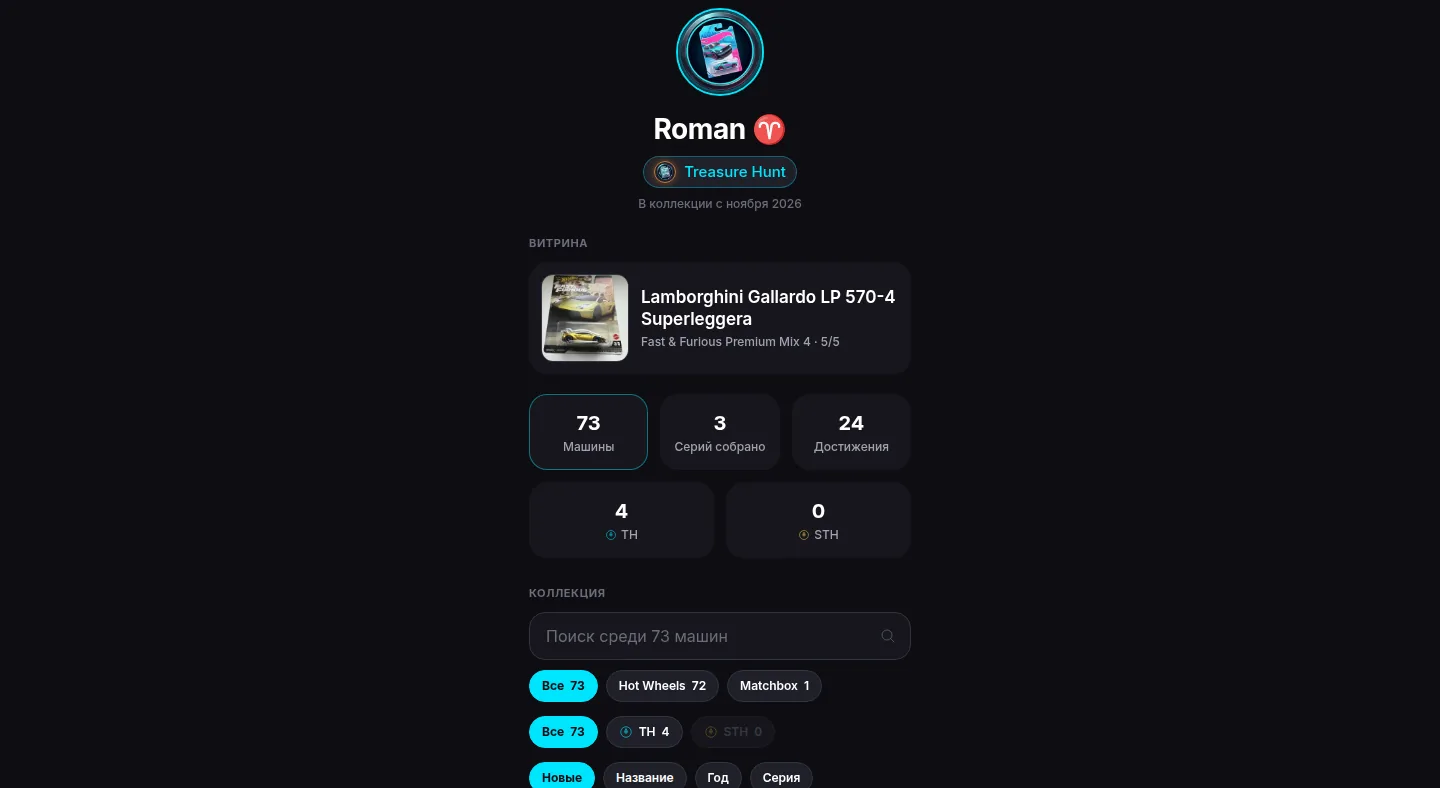
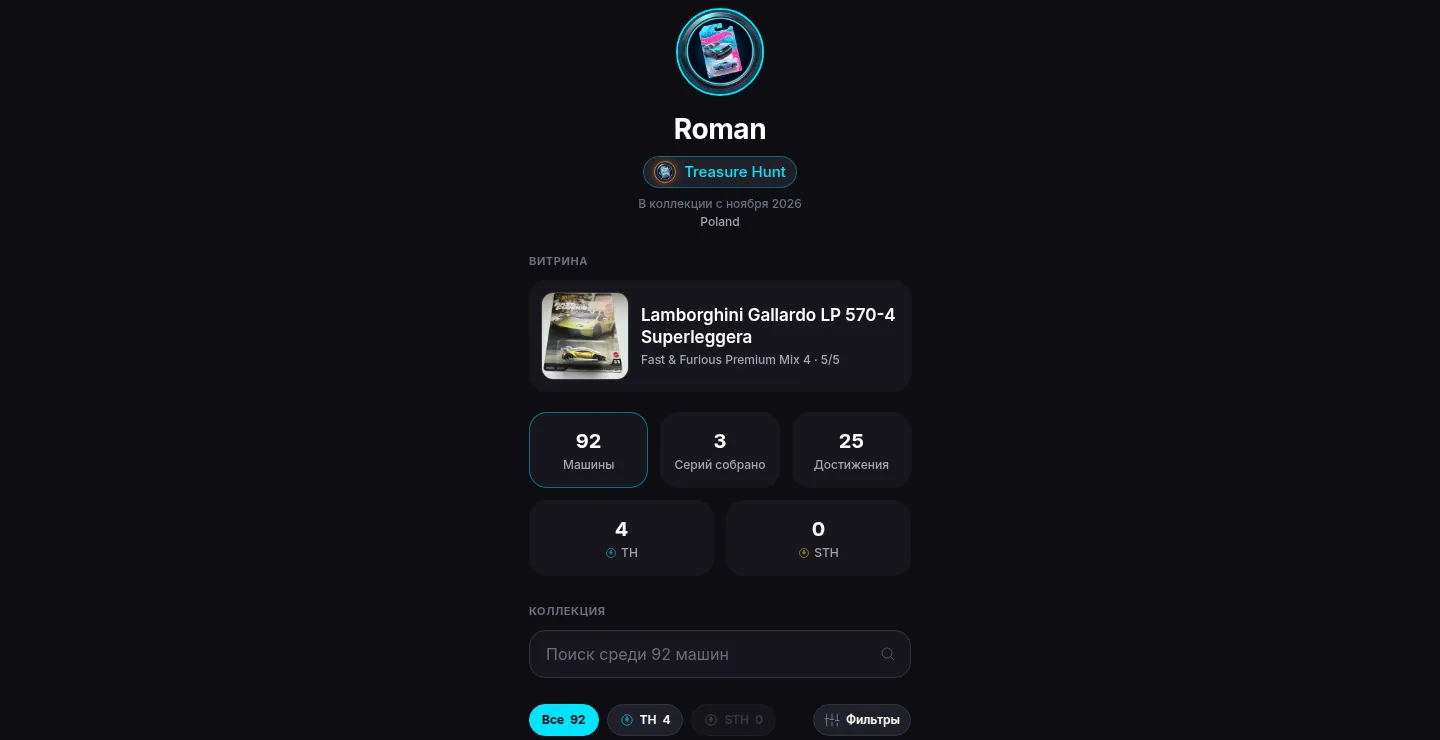
Rewrite MintBlister decisions around the shelf scan
The decisions are now collector pains: scan at the shelf, skip a duplicate, catch a Treasure Hunt, see the missing models, and keep the collection in Telegram. The problem block uses the same body type as the other cases. Screenshots are retaken from the live app, including an owned result and a TH card.

diff --git a/src/work.ts b/src/work.ts
@@ -5,7 +5,7 @@ export type PremiumCase = {
   hook: string; lead: string; role: string;
   problemL: string; problem: string; solutionL: string; solution: string;
   featuresL: string; features: CaseBlock[];
-  designL: string; decisions: string[];
+  designL: string; decisions: CaseBlock[]; note?: string;
   resultL: string; stack: string; close: string;
   ctaT: string; ctaC: string;
 };
@@ -19,7 +19,7 @@ const C = '/img/cases/';
 const range = (p: string, a: number, b: number) => Array.from({ length: b - a + 1 }, (_, i) => `${C}${p}-${a + i}.webp`);
 
 export const WORKS: Work[] = [
-  { key: 'mintblister', slug: 'mintblister', url: 'https://mintblister.vercel.app', host: 'mintblister.vercel.app', thumb: C + 'mintblister-desktop.webp', mob: C + 'mintblister-m3.webp', full: C + 'mintblister-full.webp', shots: [], mobs: [C + 'mintblister-m2.webp', C + 'mintblister-m3.webp', C + 'mintblister-public.webp', C + 'mintblister-m4.webp', C + 'mintblister-m5.webp', C + 'mintblister-m6.webp', C + 'mintblister-m7.webp'] },
+  { key: 'mintblister', slug: 'mintblister', url: 'https://mintblister.vercel.app', host: 'mintblister.vercel.app', thumb: C + 'mintblister-desktop.webp', mob: C + 'mintblister-m3.webp', full: C + 'mintblister-full.webp', shots: [], mobs: [C + 'mintblister-owned.webp', C + 'mintblister-m3.webp', C + 'mintblister-th.webp', C + 'mintblister-mobile.webp', C + 'mintblister-m2.webp', C + 'mintblister-m4.webp', C + 'mintblister-m5.webp', C + 'mintblister-public.webp', C + 'mintblister-m7.webp'] },
   { key: 'awto', slug: 'awtonapraw', url: 'https://awtonapraw.pl/', host: 'awtonapraw.pl', thumb: C + 'awtonapraw-desktop.webp', mob: C + 'awtonapraw-mobile.webp', full: C + 'awtonapraw-full.webp', shots: [C + 'awtonapraw-s1.webp', C + 'awtonapraw-s2.webp', C + 'awtonapraw-s3.webp'], mobs: [C + 'awtonapraw-mobile.webp', C + 'awtonapraw-m2.webp', C + 'awtonapraw-m3.webp'] },
   { key: 'tesla', slug: 'teslahub', url: 'https://www.teslahubservice.com/', host: 'teslahubservice.com', behance: 'https://www.behance.net/gallery/213695989/Tesla-HUB-service', thumb: C + 'teslahub-desktop.webp', mob: C + 'teslahub-mobile.webp', full: C + 'teslahub-full.webp', shots: [C + 'teslahub-s1.webp', C + 'teslahub-s2.webp', C + 'teslahub-s3.webp'], mobs: [C + 'teslahub-mobile.webp', C + 'teslahub-m2.webp', C + 'teslahub-m3.webp'],
     gallery: { label: { ua: 'Бренд під ключ: айдентика, соцмережі, друк', ru: 'Бренд под ключ: айдентика, соцсети, печать', pl: 'Marka pod klucz: identyfikacja, social media, druk', en: 'Turnkey brand: identity, social, print' }, imgs: range('teslahub-brand', 1, 7) } },
@@ -37,33 +37,34 @@ const NEW: Record<'mintblister' | 'glow' | 'reserba' | 'garcinia', Record<Lang, 
     ua: {
       title: 'MintBlister', tag: 'Telegram Mini App · Hot Wheels / Matchbox',
       task: 'Скан блистера. Модель у гаражі. Telegram Mini App для колекціонерів Hot Wheels і Matchbox.',
-      did: ['Скан блистера', 'Каталог на 1 548 моделей', 'TH / STH', 'Досягнення', 'Публічна колекція'],
+      did: ['Скан блистера', 'Каталог на 1 583 моделі', 'TH / STH', 'Досягнення', 'Публічна колекція'],
       result: ['Живий продукт у Telegram і в браузері', 'Публічна колекція, яку можна надіслати', 'Від назви до запуску'],
       premium: {
         hook: 'Скан блистера. Модель у гаражі.',
         lead: 'Telegram Mini App для Hot Wheels і Matchbox.',
         role: 'Ідея, назва, інтерфейс, запуск. Збірка з допомогою ШІ.',
         problemL: 'Безлад',
-        problem: 'Сотні машин у нотатках і таблицях. Не видно, чого бракує. Treasure Hunt і Super Treasure Hunt тонуть у списку.',
+        problem: 'Біля полиці не видно, чи машина вже є, чи вона рідкісна і яких моделей у серії бракує.',
         solutionL: 'Продукт',
-        solution: 'Фото блистера. MintBlister впізнає модель і кладе її в колекцію. Каталог показує дірку в кожній серії. Та сама колекція відкрита в Telegram і в браузері.',
+        solution: 'Скан блистера відповідає на всі три питання і кладе нову модель у колекцію.',
         featuresL: 'Що всередині',
         features: [
           { t: 'Скан', d: 'Фото блистера. Модель розпізнається і додається. Якщо зчитування не впізнало картку, її додають вручну.' },
-          { t: 'Каталог', d: '1 548 моделей. Зібрані серії, пошук, фільтри TH і STH у нижній панелі.' },
-          { t: 'TH / STH', d: 'Treasure Hunt і Super Treasure Hunt стоять на картці і в фільтрах.' },
+          { t: 'Каталог', d: '1 583 моделі. Пошук, зібрані серії, фільтри TH і STH у нижній панелі.' },
+          { t: 'TH / STH', d: 'Treasure Hunt стоїть на картці разом із прогресом серії. Super Treasure Hunt є у фільтрах і в полюванні.' },
           { t: 'Досягнення', d: 'Намальовані значки. Значок STH — блистер із золотим полум’ям. Запрошення іншим колекціонерам.' },
           { t: 'Синхронізація', d: 'Supabase. Вхід на сайті через Telegram: код або QR. Колекція в Mini App і в браузері.' },
           { t: 'Публічна сторінка', d: 'Вітрина, статистика, усі машини з обкладинками, фільтри TH/STH, перемикач приватності.' },
         ],
         designL: 'Рішення',
         decisions: [
-          'Спочатку телефон. Продукт живе в Telegram.',
-          'Скан у центрі таб-бару. Один дотик.',
-          'Мова колекціонера: серія, TH, STH.',
-          'Чорне і біле. Один синій.',
-          'Прогрес на екрані: серії, досягнення, запрошення.',
+          { t: 'Скан біля полиці', d: 'Скан стоїть у центрі панелі: один дотик, і блистер можна сфотографувати або перевірити за назвою.' },
+          { t: 'Без другої такої самої', d: 'Перевірка одразу показує, чи ця машина вже є в колекції.' },
+          { t: 'Рідкісну не пропустити', d: 'Treasure Hunt позначено на картці, поруч прогрес серії. Super Treasure Hunt є у фільтрах і в полюванні на головній.' },
+          { t: 'Видно, чого бракує', d: 'У кожної серії на головній написано, скільки зібрано і яких моделей немає.' },
+          { t: 'Завжди з собою', d: 'Відкривається в Telegram, окремий застосунок ставити не потрібно. Вхід через Telegram синхронізує колекцію, публічну сторінку можна надіслати.' },
         ],
+        note: 'Чорне, біле і один синій.',
         resultL: 'Запуск',
         stack: 'React · Telegram Mini App · Supabase · Vercel · Vercel AI Gateway',
         close: 'Продукт уже відкритий.',
@@ -74,33 +75,34 @@ const NEW: Record<'mintblister' | 'glow' | 'reserba' | 'garcinia', Record<Lang, 
     ru: {
       title: 'MintBlister', tag: 'Telegram Mini App · Hot Wheels / Matchbox',
       task: 'Скан блистера. Модель в гараже. Telegram Mini App для коллекционеров Hot Wheels и Matchbox.',
-      did: ['Скан блистера', 'Каталог на 1 548 моделей', 'TH / STH', 'Достижения', 'Публичная коллекция'],
+      did: ['Скан блистера', 'Каталог на 1 583 модели', 'TH / STH', 'Достижения', 'Публичная коллекция'],
       result: ['Живой продукт в Telegram и в браузере', 'Публичная коллекция, которую можно отправить', 'От названия до запуска'],
       premium: {
         hook: 'Скан блистера. Модель в гараже.',
         lead: 'Telegram Mini App для Hot Wheels и Matchbox.',
         role: 'Идея, название, интерфейс, запуск. Сборка с помощью ИИ.',
         problemL: 'Бардак',
-        problem: 'Сотни машин в заметках и таблицах. Не видно, чего не хватает. Treasure Hunt и Super Treasure Hunt тонут в списке.',
+        problem: 'У полки не видно, есть ли уже эта машина, редкая ли она и каких моделей в серии не хватает.',
         solutionL: 'Продукт',
-        solution: 'Фото блистера. MintBlister узнаёт модель и кладёт её в коллекцию. Каталог показывает дыру в каждой серии. Та же коллекция открыта в Telegram и в браузере.',
+        solution: 'Скан блистера отвечает на все три вопроса и кладёт новую модель в коллекцию.',
         featuresL: 'Что внутри',
         features: [
           { t: 'Скан', d: 'Фото блистера. Модель распознаётся и добавляется. Если считывание не узнало карточку, её добавляют вручную.' },
-          { t: 'Каталог', d: '1 548 моделей. Собранные серии, поиск, фильтры TH и STH в нижней панели.' },
-          { t: 'TH / STH', d: 'Treasure Hunt и Super Treasure Hunt стоят на карточке и в фильтрах.' },
+          { t: 'Каталог', d: '1 583 модели. Поиск, собранные серии, фильтры TH и STH в нижней панели.' },
+          { t: 'TH / STH', d: 'Treasure Hunt стоит на карточке вместе с прогрессом серии. Super Treasure Hunt есть в фильтрах и в охоте.' },
           { t: 'Достижения', d: 'Нарисованные значки. Значок STH — блистер с золотым пламенем. Приглашения другим коллекционерам.' },
           { t: 'Синхронизация', d: 'Supabase. Вход на сайте через Telegram: код или QR. Коллекция в Mini App и в браузере.' },
           { t: 'Публичная страница', d: 'Витрина, статистика, все машины с обложками, фильтры TH/STH, переключатель приватности.' },
         ],
         designL: 'Решения',
         decisions: [
-          'Сначала телефон. Продукт живёт в Telegram.',
-          'Скан в центре таб-бара. Одно касание.',
-          'Язык коллекционера: серия, TH, STH.',
-          'Чёрное и белое. Один синий.',
-          'Прогресс на экране: серии, достижения, приглашения.',
+          { t: 'Скан у полки', d: 'Скан стоит в центре панели: одно касание, и блистер можно сфотографировать или проверить по имени.' },
+          { t: 'Без второй такой же', d: 'Проверка сразу показывает, есть ли эта машина уже в коллекции.' },
+          { t: 'Редкую не пропустить', d: 'Treasure Hunt отмечен на карточке, рядом прогресс серии. Super Treasure Hunt есть в фильтрах и в охоте на главной.' },
+          { t: 'Видно, чего не хватает', d: 'У каждой серии на главной написано, сколько собрано и каких моделей нет.' },
+          { t: 'Всегда с собой', d: 'Открывается в Telegram, отдельное приложение ставить не нужно. Вход через Telegram синхронизирует коллекцию, публичную страницу можно отправить.' },
         ],
+        note: 'Чёрное, белое и один синий.',
         resultL: 'Запуск',
         stack: 'React · Telegram Mini App · Supabase · Vercel · Vercel AI Gateway',
         close: 'Продукт уже открыт.',
@@ -111,33 +113,34 @@ const NEW: Record<'mintblister' | 'glow' | 'reserba' | 'garcinia', Record<Lang, 
     pl: {
       title: 'MintBlister', tag: 'Telegram Mini App · Hot Wheels / Matchbox',
       task: 'Skan blistra. Model w garażu. Telegram Mini App dla kolekcjonerów Hot Wheels i Matchbox.',
-      did: ['Skan blistra', 'Katalog 1 548 modeli', 'TH / STH', 'Osiągnięcia', 'Publiczna kolekcja'],
+      did: ['Skan blistra', 'Katalog 1 583 modeli', 'TH / STH', 'Osiągnięcia', 'Publiczna kolekcja'],
       result: ['Żywy produkt w Telegramie i w przeglądarce', 'Publiczna kolekcja, którą da się wysłać', 'Od nazwy do uruchomienia'],
       premium: {
         hook: 'Skan blistra. Model w garażu.',
         lead: 'Telegram Mini App dla Hot Wheels i Matchbox.',
         role: 'Pomysł, nazwa, interfejs, start. Zbudowane z pomocą AI.',
         problemL: 'Bałagan',
-        problem: 'Setki aut w notatkach i arkuszach. Nie widać braków. Treasure Hunt i Super Treasure Hunt giną na liście.',
+        problem: 'Przy półce nie widać, czy auto już jest, czy jest rzadkie i których modeli w serii brakuje.',
         solutionL: 'Produkt',
-        solution: 'Zdjęcie blistra. MintBlister rozpoznaje model i wkłada go do kolekcji. Katalog pokazuje lukę w każdej serii. Ta sama kolekcja jest w Telegramie i w przeglądarce.',
+        solution: 'Skan blistra odpowiada na te trzy pytania i dokłada nowy model do kolekcji.',
         featuresL: 'Co jest w środku',
         features: [
           { t: 'Skan', d: 'Zdjęcie blistra. Model jest rozpoznawany i dodawany. Gdy odczyt nie trafi, auto dodaje się ręcznie.' },
-          { t: 'Katalog', d: '1 548 modeli. Zebrane serie, wyszukiwanie, filtry TH i STH w dolnym panelu.' },
-          { t: 'TH / STH', d: 'Treasure Hunt i Super Treasure Hunt na karcie i w filtrach.' },
+          { t: 'Katalog', d: '1 583 modele. Wyszukiwanie, zebrane serie, filtry TH i STH w dolnym panelu.' },
+          { t: 'TH / STH', d: 'Treasure Hunt jest na karcie razem z postępem serii. Super Treasure Hunt jest w filtrach i w polowaniu.' },
           { t: 'Osiągnięcia', d: 'Rysowane odznaki. Odznaka STH to blister ze złotym płomieniem. Zaproszenia dla innych kolekcjonerów.' },
           { t: 'Synchronizacja', d: 'Supabase. Logowanie w sieci przez Telegram: kod albo QR. Kolekcja w Mini App i w przeglądarce.' },
           { t: 'Strona publiczna', d: 'Witryna, statystyki, każde auto z okładką, filtry TH/STH, przełącznik prywatności.' },
         ],
         designL: 'Decyzje',
         decisions: [
-          'Najpierw telefon. Produkt żyje w Telegramie.',
-          'Skan na środku paska. Jedno stuknięcie.',
-          'Język kolekcjonera: seria, TH, STH.',
-          'Czerń i biel. Jeden niebieski.',
-          'Postęp na ekranie: serie, osiągnięcia, zaproszenia.',
+          { t: 'Skan przy półce', d: 'Skan jest na środku paska: jedno stuknięcie, i blister da się sfotografować albo sprawdzić po nazwie.' },
+          { t: 'Bez drugiego takiego', d: 'Sprawdzenie od razu pokazuje, czy auto jest już w kolekcji.' },
+          { t: 'Nie przegapić rzadkiego', d: 'Treasure Hunt jest oznaczony na karcie, obok postęp serii. Super Treasure Hunt jest w filtrach i w polowaniu na stronie głównej.' },
+          { t: 'Widać braki', d: 'Przy każdej serii na stronie głównej widać, ile zebrano i których modeli brakuje.' },
+          { t: 'Zawsze przy sobie', d: 'Działa w Telegramie, bez osobnej instalacji. Logowanie przez Telegram synchronizuje kolekcję, a publiczną stronę da się wysłać.' },
         ],
+        note: 'Czerń, biel i jeden niebieski.',
         resultL: 'Start',
         stack: 'React · Telegram Mini App · Supabase · Vercel · Vercel AI Gateway',
         close: 'Produkt już działa.',
@@ -148,33 +151,34 @@ const NEW: Record<'mintblister' | 'glow' | 'reserba' | 'garcinia', Record<Lang, 
     en: {
       title: 'MintBlister', tag: 'Telegram Mini App · Hot Wheels / Matchbox',
       task: 'Scan the blister. Keep the garage. A Telegram Mini App for Hot Wheels and Matchbox collectors.',
-      did: ['Blister scan', 'Catalog of 1,548 models', 'TH / STH', 'Achievements', 'Public collection'],
+      did: ['Blister scan', 'Catalog of 1,583 models', 'TH / STH', 'Achievements', 'Public collection'],
       result: ['Live in Telegram and in the browser', 'A public collection, ready to send', 'From the name to a launch'],
       premium: {
         hook: 'Scan the blister. Keep the garage.',
         lead: 'A Telegram Mini App for Hot Wheels and Matchbox.',
         role: 'Idea, name, interface, launch. AI-assisted build.',
         problemL: 'The mess',
-        problem: 'Hundreds of cars sit in notes and spreadsheets. What is missing stays a guess. Treasure Hunts and Super Treasure Hunts disappear into the list.',
+        problem: 'At the shelf it is unclear whether the car is already owned, whether it is rare, and which models in the series are still missing.',
         solutionL: 'The product',
-        solution: 'Photograph a blister. MintBlister names the model and files it. The catalog shows the hole in every series. The same collection opens in Telegram and in the browser.',
+        solution: 'A blister scan answers all three and files a new model in the collection.',
         featuresL: 'Inside',
         features: [
           { t: 'Scan', d: 'Photograph the blister. The model is recognized and added. If the read misses, add the car by hand.' },
-          { t: 'Catalog', d: '1,548 models. Series collected, search, and TH / STH filters in a bottom sheet.' },
-          { t: 'TH / STH', d: 'Treasure Hunt and Super Treasure Hunt, marked on the car and in the filters.' },
+          { t: 'Catalog', d: '1,583 models. Search, series collected, and TH / STH filters in a bottom sheet.' },
+          { t: 'TH / STH', d: 'Treasure Hunt is marked on the card, with series progress beside it. Super Treasure Hunt is in the filters and in the hunt.' },
           { t: 'Achievements', d: 'Illustrated badges. The STH badge is a blister with a gold flame. Invites bring other collectors in.' },
           { t: 'Sync', d: 'Supabase. Sign in on the web with Telegram, by code or QR. The collection is in the Mini App and in the browser.' },
           { t: 'Public page', d: 'Showcase, stats, every car with its cover, TH/STH filters, and a privacy toggle.' },
         ],
         designL: 'Decisions',
         decisions: [
-          'Mobile first. The product lives in Telegram.',
-          'Scan sits in the center of the tab bar. One tap.',
-          'Collector language: series, TH, STH.',
-          'Black and white. One blue.',
-          'Progress stays on screen: series, achievements, invites.',
+          { t: 'Scan at the shelf', d: 'Scan sits in the center of the tab bar: one tap, then photograph the blister or check it by name.' },
+          { t: 'No second copy', d: 'The check says at once whether the car is already in the collection.' },
+          { t: 'Don\'t miss the rare one', d: 'A Treasure Hunt is marked on the card, with series progress beside it. Super Treasure Hunt is in the filters and in the hunt on home.' },
+          { t: 'See what\'s missing', d: 'Each series on home shows how many are collected and which models are still out.' },
+          { t: 'Always with you', d: 'It opens in Telegram, with nothing else to install. Signing in with Telegram syncs the collection, and the public page can be sent.' },
         ],
+        note: 'Black, white, and one blue.',
         resultL: 'Shipped',
         stack: 'React · Telegram Mini App · Supabase · Vercel · Vercel AI Gateway',
         close: 'The product is open.',

diff --git a/src/components/MintCase.tsx b/src/components/MintCase.tsx
@@ -23,7 +23,7 @@ export function MintCase({ lang, index, total, text, work, nextHref, nextTitle, 
         <a href={`/${lang}/`} className="text-white">{name}</a>
       </header>
 
-      <section className="mt-24 md:mt-36 max-w-3xl">
+      <section className="mt-14 md:mt-20 max-w-3xl">
         <p className="font-mono text-[11px] tracking-[0.28em] uppercase" style={{ color: BLUE }}>MintBlister · 0{index} / 0{total}</p>
         <h1 className="mt-6 text-[2.6rem] leading-[1.02] md:text-7xl md:leading-[0.96] font-normal tracking-[-0.035em] text-white">{p.hook}</h1>
         <p className="mt-8 text-lg md:text-xl text-stone-300 max-w-xl leading-snug">{p.lead}</p>
@@ -34,20 +34,20 @@ export function MintCase({ lang, index, total, text, work, nextHref, nextTitle, 
         </div>
       </section>
 
-      <div className="mt-20 md:mt-28 flex items-end justify-center gap-2 md:gap-10 lg:gap-14">
+      <div className="mt-10 md:mt-12 flex items-end justify-center gap-2 md:gap-10 lg:gap-14">
         <div className="w-[26%] max-w-[250px]"><Phone src={heroL} /></div>
         <div className="w-[40%] max-w-[360px] md:mb-8"><Phone src={heroC} /></div>
         <div className="w-[26%] max-w-[250px]"><Phone src={heroR} /></div>
       </div>
 
-      <section className="mt-32 md:mt-48 grid md:grid-cols-2 gap-16 md:gap-24 max-w-5xl">
+      <section className="mt-32 md:mt-48 grid md:grid-cols-2 gap-10 md:gap-16 max-w-5xl">
         <div>
-          <p className="text-[11px] uppercase tracking-[0.25em]" style={{ color: BLUE }}>{p.problemL}</p>
-          <p className="mt-5 text-2xl md:text-3xl font-normal tracking-tight text-white leading-snug">{p.problem}</p>
+          <p className="text-[11px] uppercase tracking-[0.25em] text-stone-500">{p.problemL}</p>
+          <p className="mt-3 text-sm leading-relaxed text-stone-300">{p.problem}</p>
         </div>
         <div>
-          <p className="text-[11px] uppercase tracking-[0.25em]" style={{ color: BLUE }}>{p.solutionL}</p>
-          <p className="mt-5 text-2xl md:text-3xl font-normal tracking-tight text-white leading-snug">{p.solution}</p>
+          <p className="text-[11px] uppercase tracking-[0.25em] text-stone-500">{p.solutionL}</p>
+          <p className="mt-3 text-sm leading-relaxed text-stone-300">{p.solution}</p>
         </div>
       </section>
 
@@ -67,19 +67,25 @@ export function MintCase({ lang, index, total, text, work, nextHref, nextTitle, 
 
       <section className="mt-32 md:mt-48 grid md:grid-cols-12 gap-10">
         <h2 className="md:col-span-4 text-2xl md:text-3xl font-normal tracking-tight text-white">{p.designL}</h2>
-        <ol className="md:col-span-8 divide-y divide-white/[0.07]">
-          {p.decisions.map((line, i) => (
-            <li key={line} className="py-5 flex gap-6 text-stone-200">
-              <span className="font-mono text-[11px] tracking-[0.18em] pt-1" style={{ color: BLUE }}>0{i + 1}</span>
-              <span className="text-lg md:text-xl font-normal tracking-tight">{line}</span>
-            </li>
-          ))}
-        </ol>
+        <div className="md:col-span-8">
+          <ol className="divide-y divide-white/[0.07]">
+            {p.decisions.map((item, i) => (
+              <li key={item.t} className="py-5 flex gap-6">
+                <span className="font-mono text-[11px] tracking-[0.18em] pt-1" style={{ color: BLUE }}>0{i + 1}</span>
+                <div>
+                  <h3 className="text-base font-normal tracking-tight text-white">{item.t}</h3>
+                  <p className="mt-2 text-sm leading-relaxed text-stone-300">{item.d}</p>
+                </div>
+              </li>
+            ))}
+          </ol>
+          {p.note && <p className="mt-6 text-sm leading-relaxed text-stone-500">{p.note}</p>}
+        </div>
       </section>
 
       <section className="mt-28 md:mt-40">
         <p className="text-[11px] uppercase tracking-[0.25em] text-stone-500">{ui.mobile}</p>
-        <div className="mt-10 grid grid-cols-2 lg:grid-cols-4 gap-4 md:gap-8">
+        <div className="mt-10 grid grid-cols-2 md:grid-cols-3 gap-4 md:gap-8">
           {rest.map((src) => <Phone key={src} src={src} />)}
         </div>
       </section>
